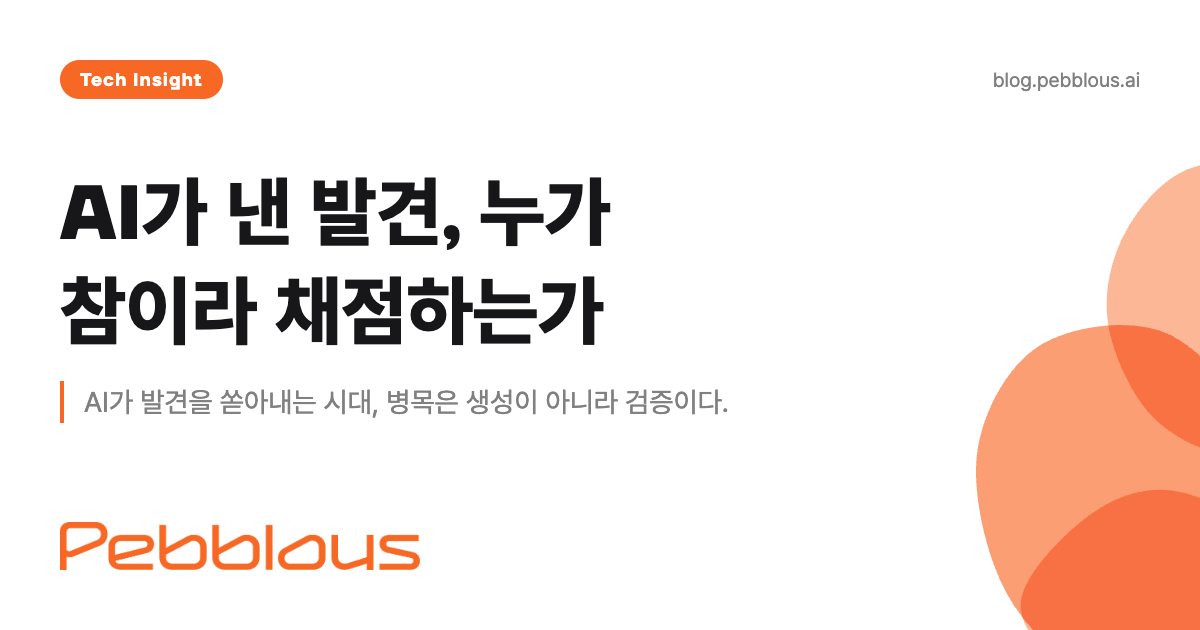
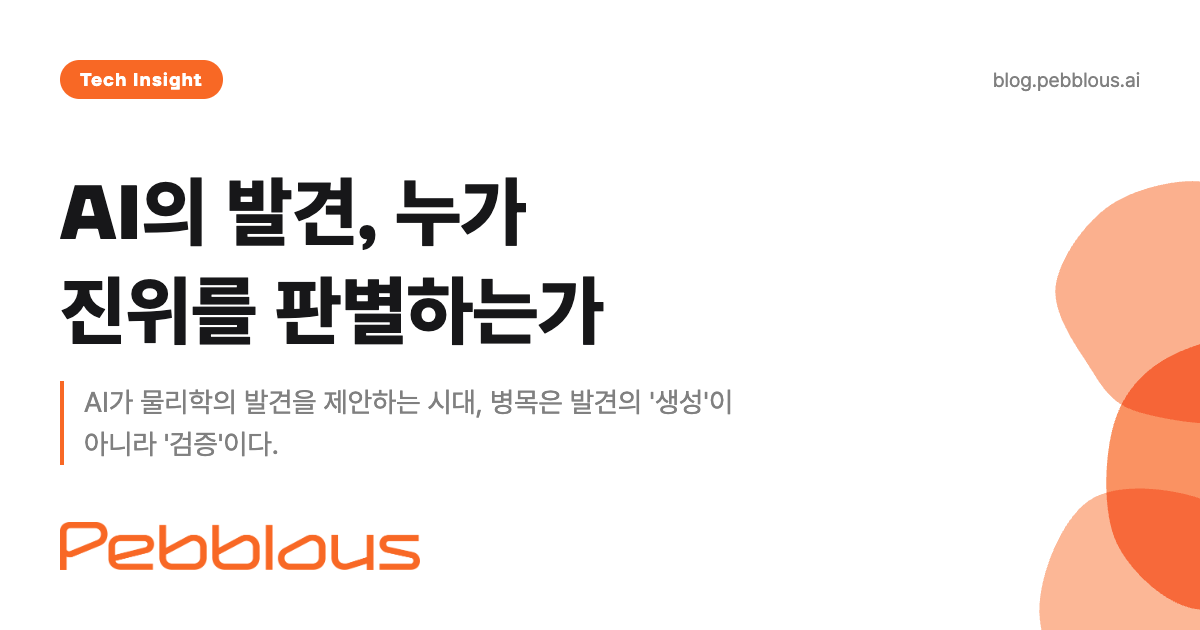
chore(titles): 제목·메타 일괄 교정 1건/5필드 (제목 검토 콘솔)\n\n- ai-driven-discovery-verification-ko:\n    제목: AI가 낸 발견, 누가 참이라 채점하는가 → AI의 발견, 누가 진위를 판별하는가\n    부제목: AI 검증이 마주하는 세 근본 한계와 데이터 준비도 다음 단계인 발견 준비도 → AI 검증의 세 가지 근본적 한계와 ‘데이터 준비’를 넘어선 ‘발견 준비’\n    SEO 제목: AI가 낸 발견, 누가 참이라 채점하는가 — AI 검증 3대 한계와 발견 준비도 | 페

diff --git a/report/ai-driven-discovery-verification/ko/index.html b/report/ai-driven-discovery-verification/ko/index.html
@@ -10,8 +10,9 @@
     <meta name="robots" content="index, follow">
     <meta name="revisit-after" content="7 days">
 
-    <title>AI가 낸 발견, 누가 참이라 채점하는가 — AI 검증 3대 한계와 발견 준비도 | 페블러스</title>
-    <meta name="description" content="AI가 물리학의 다음 발견을 제안하는 시대, 병목은 생성이 아니라 검증이다. 귀납 편향·표본 복잡도·실험 제약이라는 세 한계와 VERaiPHY 검증 프레임을 읽고, 데이터 준비도 다음 단계인 발견 준비도까지 살펴본다.">
+    <title>AI의 발견, 누가 진위를 판별하는가 — AI 검증 3대 한계와 발견 준비도 | 페블러스</title>
+    <meta name="og-image-title" content="AI의 발견, 누가 진위를 판별하는가">
+    <meta name="description" content="AI가 물리학의 발견을 제안하는 시대, 병목은 발견의 '생성'이 아니라 '검증'이다. 귀납 편향·표본 복잡도·실험 제약이라는 세 가지 한계와 VERaiPHY 검증 프레임. 그리고 '데이터 준비도' 다음 단계인 '발견 준비도'까지 살펴본다.">
     <meta name="keywords" content="AI 검증, 과학적 발견, 발견 준비도, 데이터 준비도, VERaiPHY, AI4Science, 물리학, AI 거버넌스, 재현성, 데이터 품질, GNoME, LHC, DataClinic, AI-Ready Data, Pebblous, 페블러스">
 
     <link rel="canonical" href="https://blog.pebblous.ai/report/ai-driven-discovery-verification/ko/">
@@ -20,8 +21,8 @@
     <link rel="alternate" hreflang="x-default" href="https://blog.pebblous.ai/report/ai-driven-discovery-verification/ko/">
 
     <!-- Open Graph -->
-    <meta property="og:title" content="AI가 낸 발견, 누가 참이라 채점하는가">
-    <meta property="og:description" content="AI가 발견을 쏟아내는 시대, 병목은 생성이 아니라 검증이다. 물리학이 먼저 겪는 세 한계와 '발견 준비도'라는 다음 질문.">
+    <meta property="og:title" content="AI의 발견, 누가 진위를 판별하는가">
+    <meta property="og:description" content="AI가 물리학의 발견을 제안하는 시대, 병목은 발견의 '생성'이 아니라 '검증'이다. 귀납 편향·표본 복잡도·실험 제약이라는 세 가지 한계와 VERaiPHY 검증 프레임. 그리고 '데이터 준비도' 다음 단계인 '발견 준비도'까지 살펴본다.">
     <meta property="og:type" content="article">
     <meta property="og:url" content="https://blog.pebblous.ai/report/ai-driven-discovery-verification/ko/">
     <meta property="og:image" content="https://blog.pebblous.ai/report/ai-driven-discovery-verification/ko/image/index.png">
@@ -35,8 +36,8 @@
     <meta name="twitter:card" content="summary_large_image">
     <meta name="twitter:site" content="@pebblous_ai">
     <meta name="twitter:creator" content="@pebblous_ai">
-    <meta name="twitter:title" content="AI가 낸 발견, 누가 참이라 채점하는가">
-    <meta name="twitter:description" content="AI가 발견을 쏟아내는 시대, 병목은 생성이 아니라 검증이다. 물리학이 먼저 겪는 세 한계와 '발견 준비도'라는 다음 질문.">
+    <meta name="twitter:title" content="AI의 발견, 누가 진위를 판별하는가">
+    <meta name="twitter:description" content="AI가 물리학의 발견을 제안하는 시대, 병목은 발견의 '생성'이 아니라 '검증'이다. 귀납 편향·표본 복잡도·실험 제약이라는 세 가지 한계와 VERaiPHY 검증 프레임. 그리고 '데이터 준비도' 다음 단계인 '발견 준비도'까지 살펴본다.">
     <meta name="twitter:image" content="https://blog.pebblous.ai/report/ai-driven-discovery-verification/ko/image/index.png">
     <meta name="twitter:image:alt" content="AI가 낸 발견, 누가 참이라 채점하는가 — AI 검증과 발견 준비도">
 
@@ -519,9 +520,9 @@
               },
               "recordedAt": "2026-08-02T18:38:17.084Z"
             },
-            mainTitle: "AI가 낸 발견, 누가 참이라 채점하는가",
-            subtitle: "AI 검증이 마주하는 세 근본 한계와 데이터 준비도 다음 단계인 발견 준비도",
-            pageTitle: "AI가 낸 발견, 누가 참이라 채점하는가 — AI 검증 3대 한계와 발견 준비도 | 페블러스",
+            mainTitle: "AI의 발견, 누가 진위를 판별하는가",
+            subtitle: "AI 검증의 세 가지 근본적 한계와 ‘데이터 준비’를 넘어선 ‘발견 준비’",
+            pageTitle: "AI의 발견, 누가 진위를 판별하는가 — AI 검증 3대 한계와 발견 준비도 | 페블러스",
             category: "tech",
             publishDate: "2026-08-03",
             publisher: "(주)페블러스 데이터 커뮤니케이션팀",
